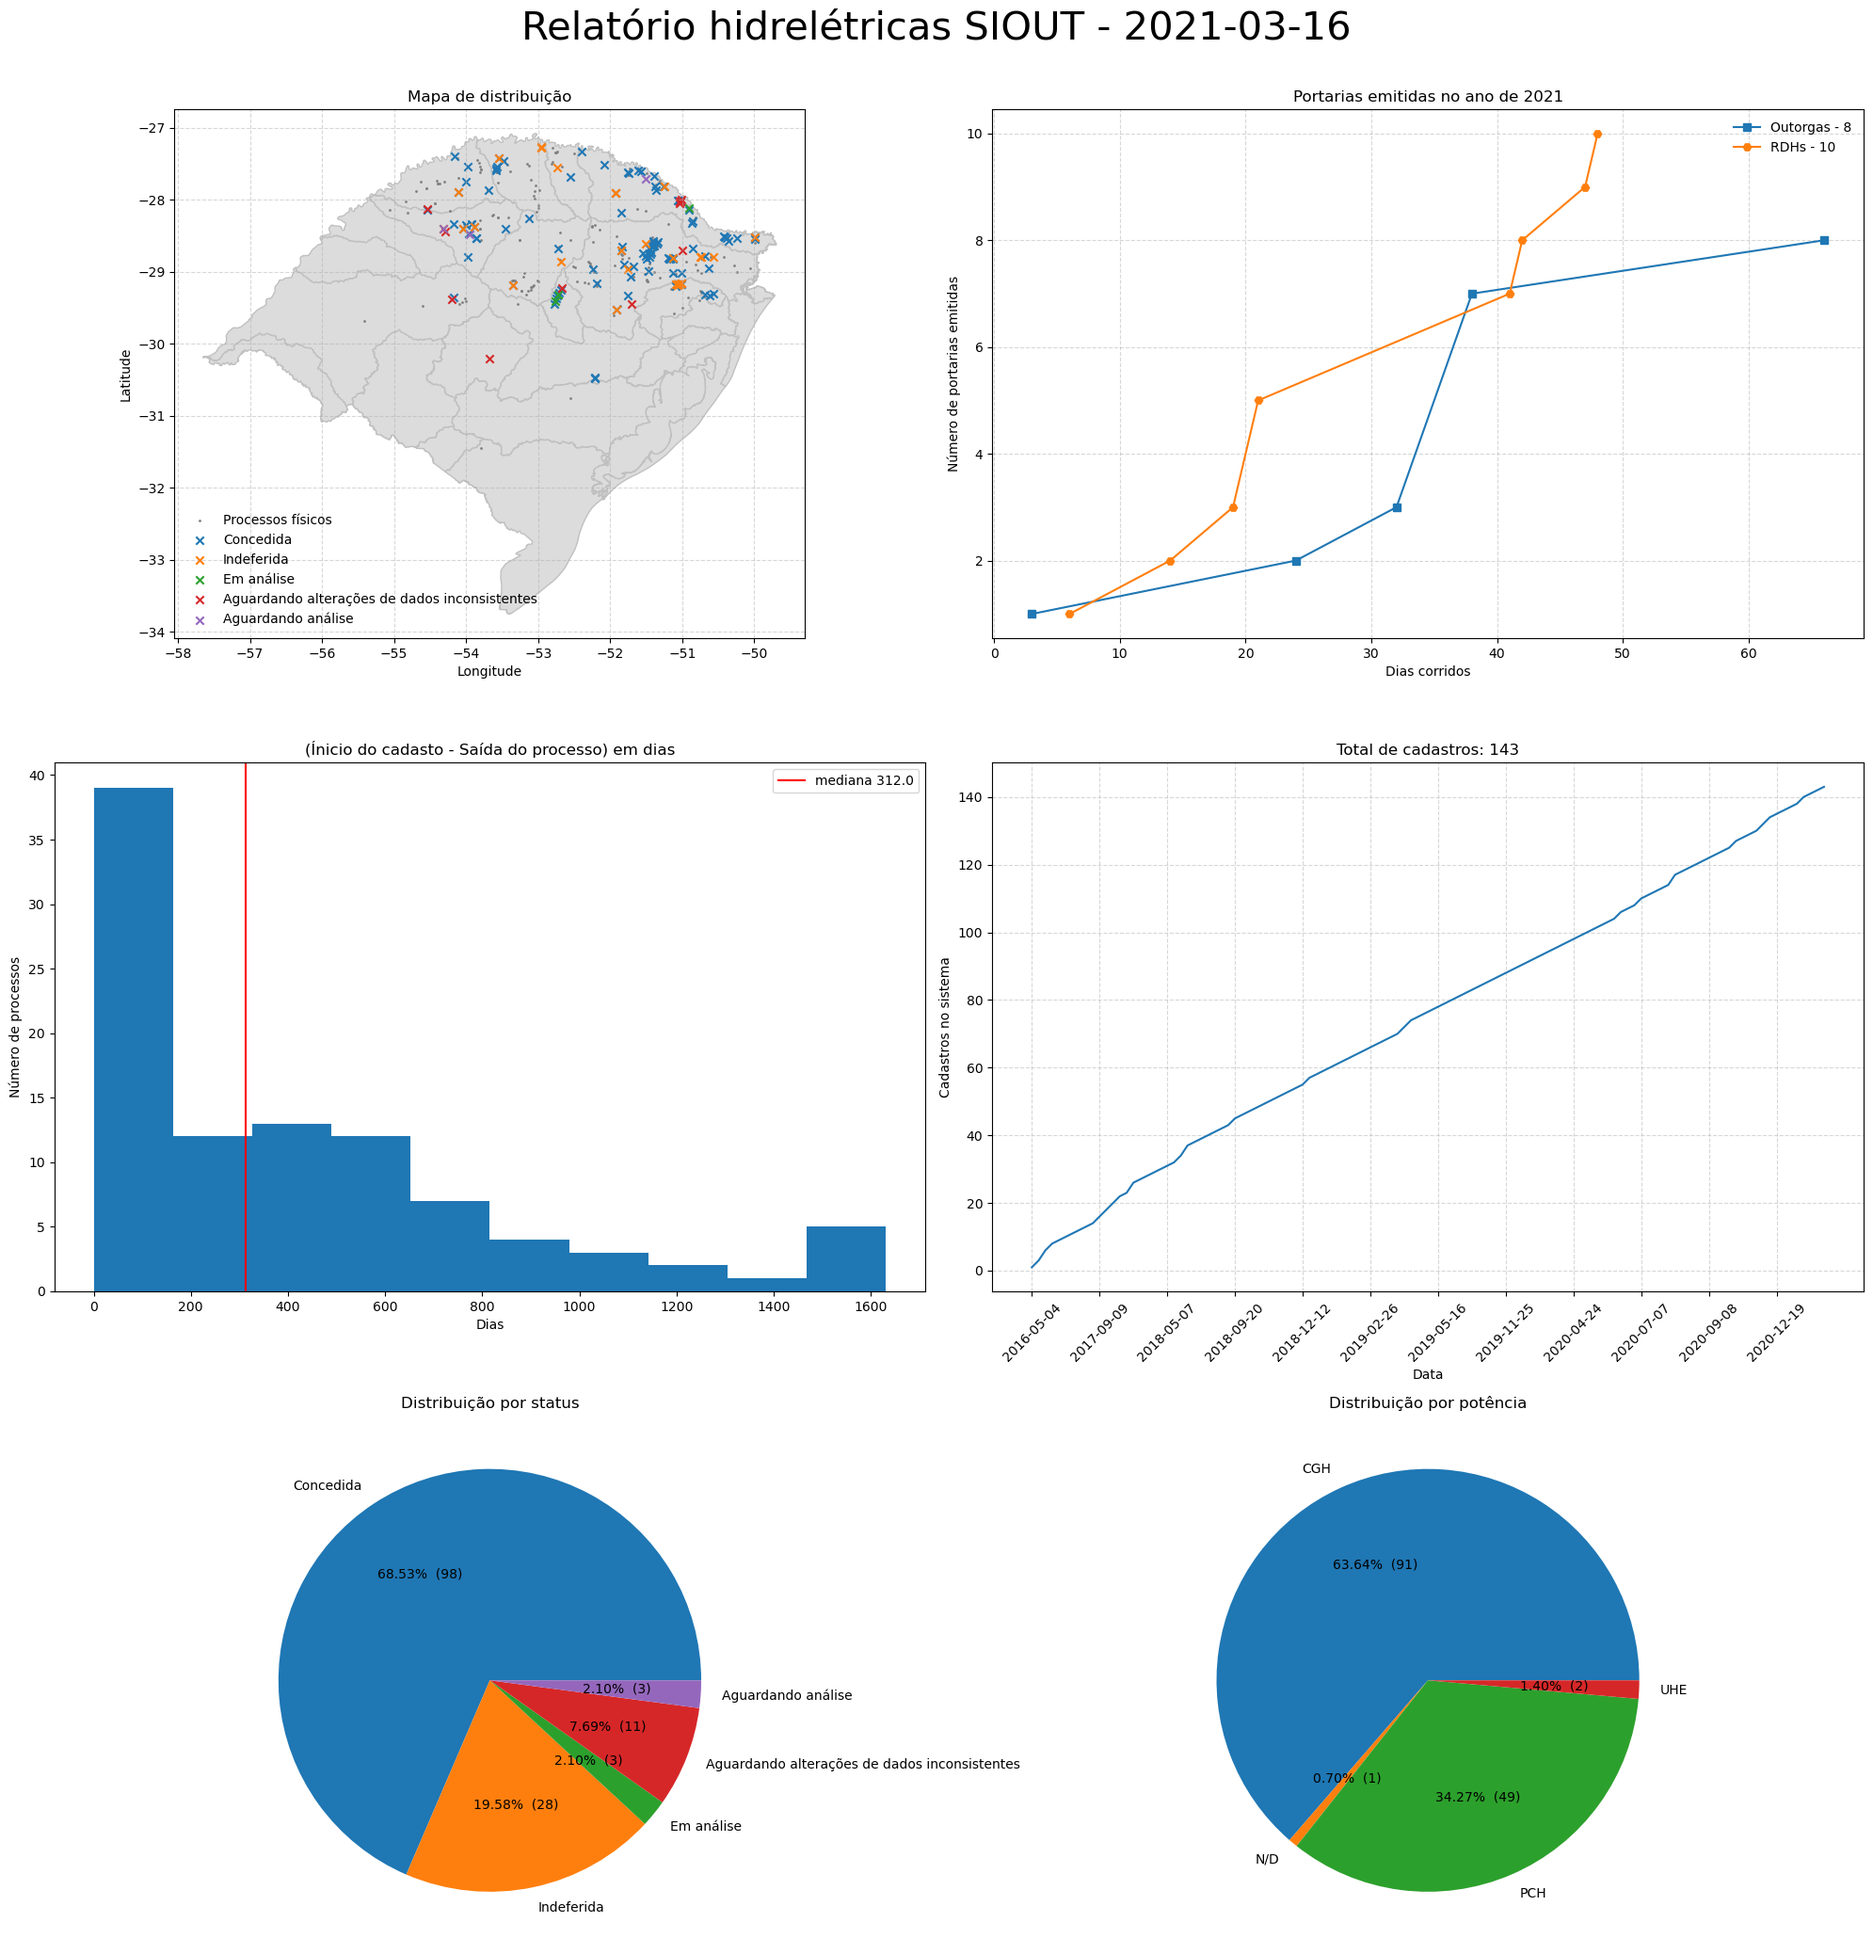
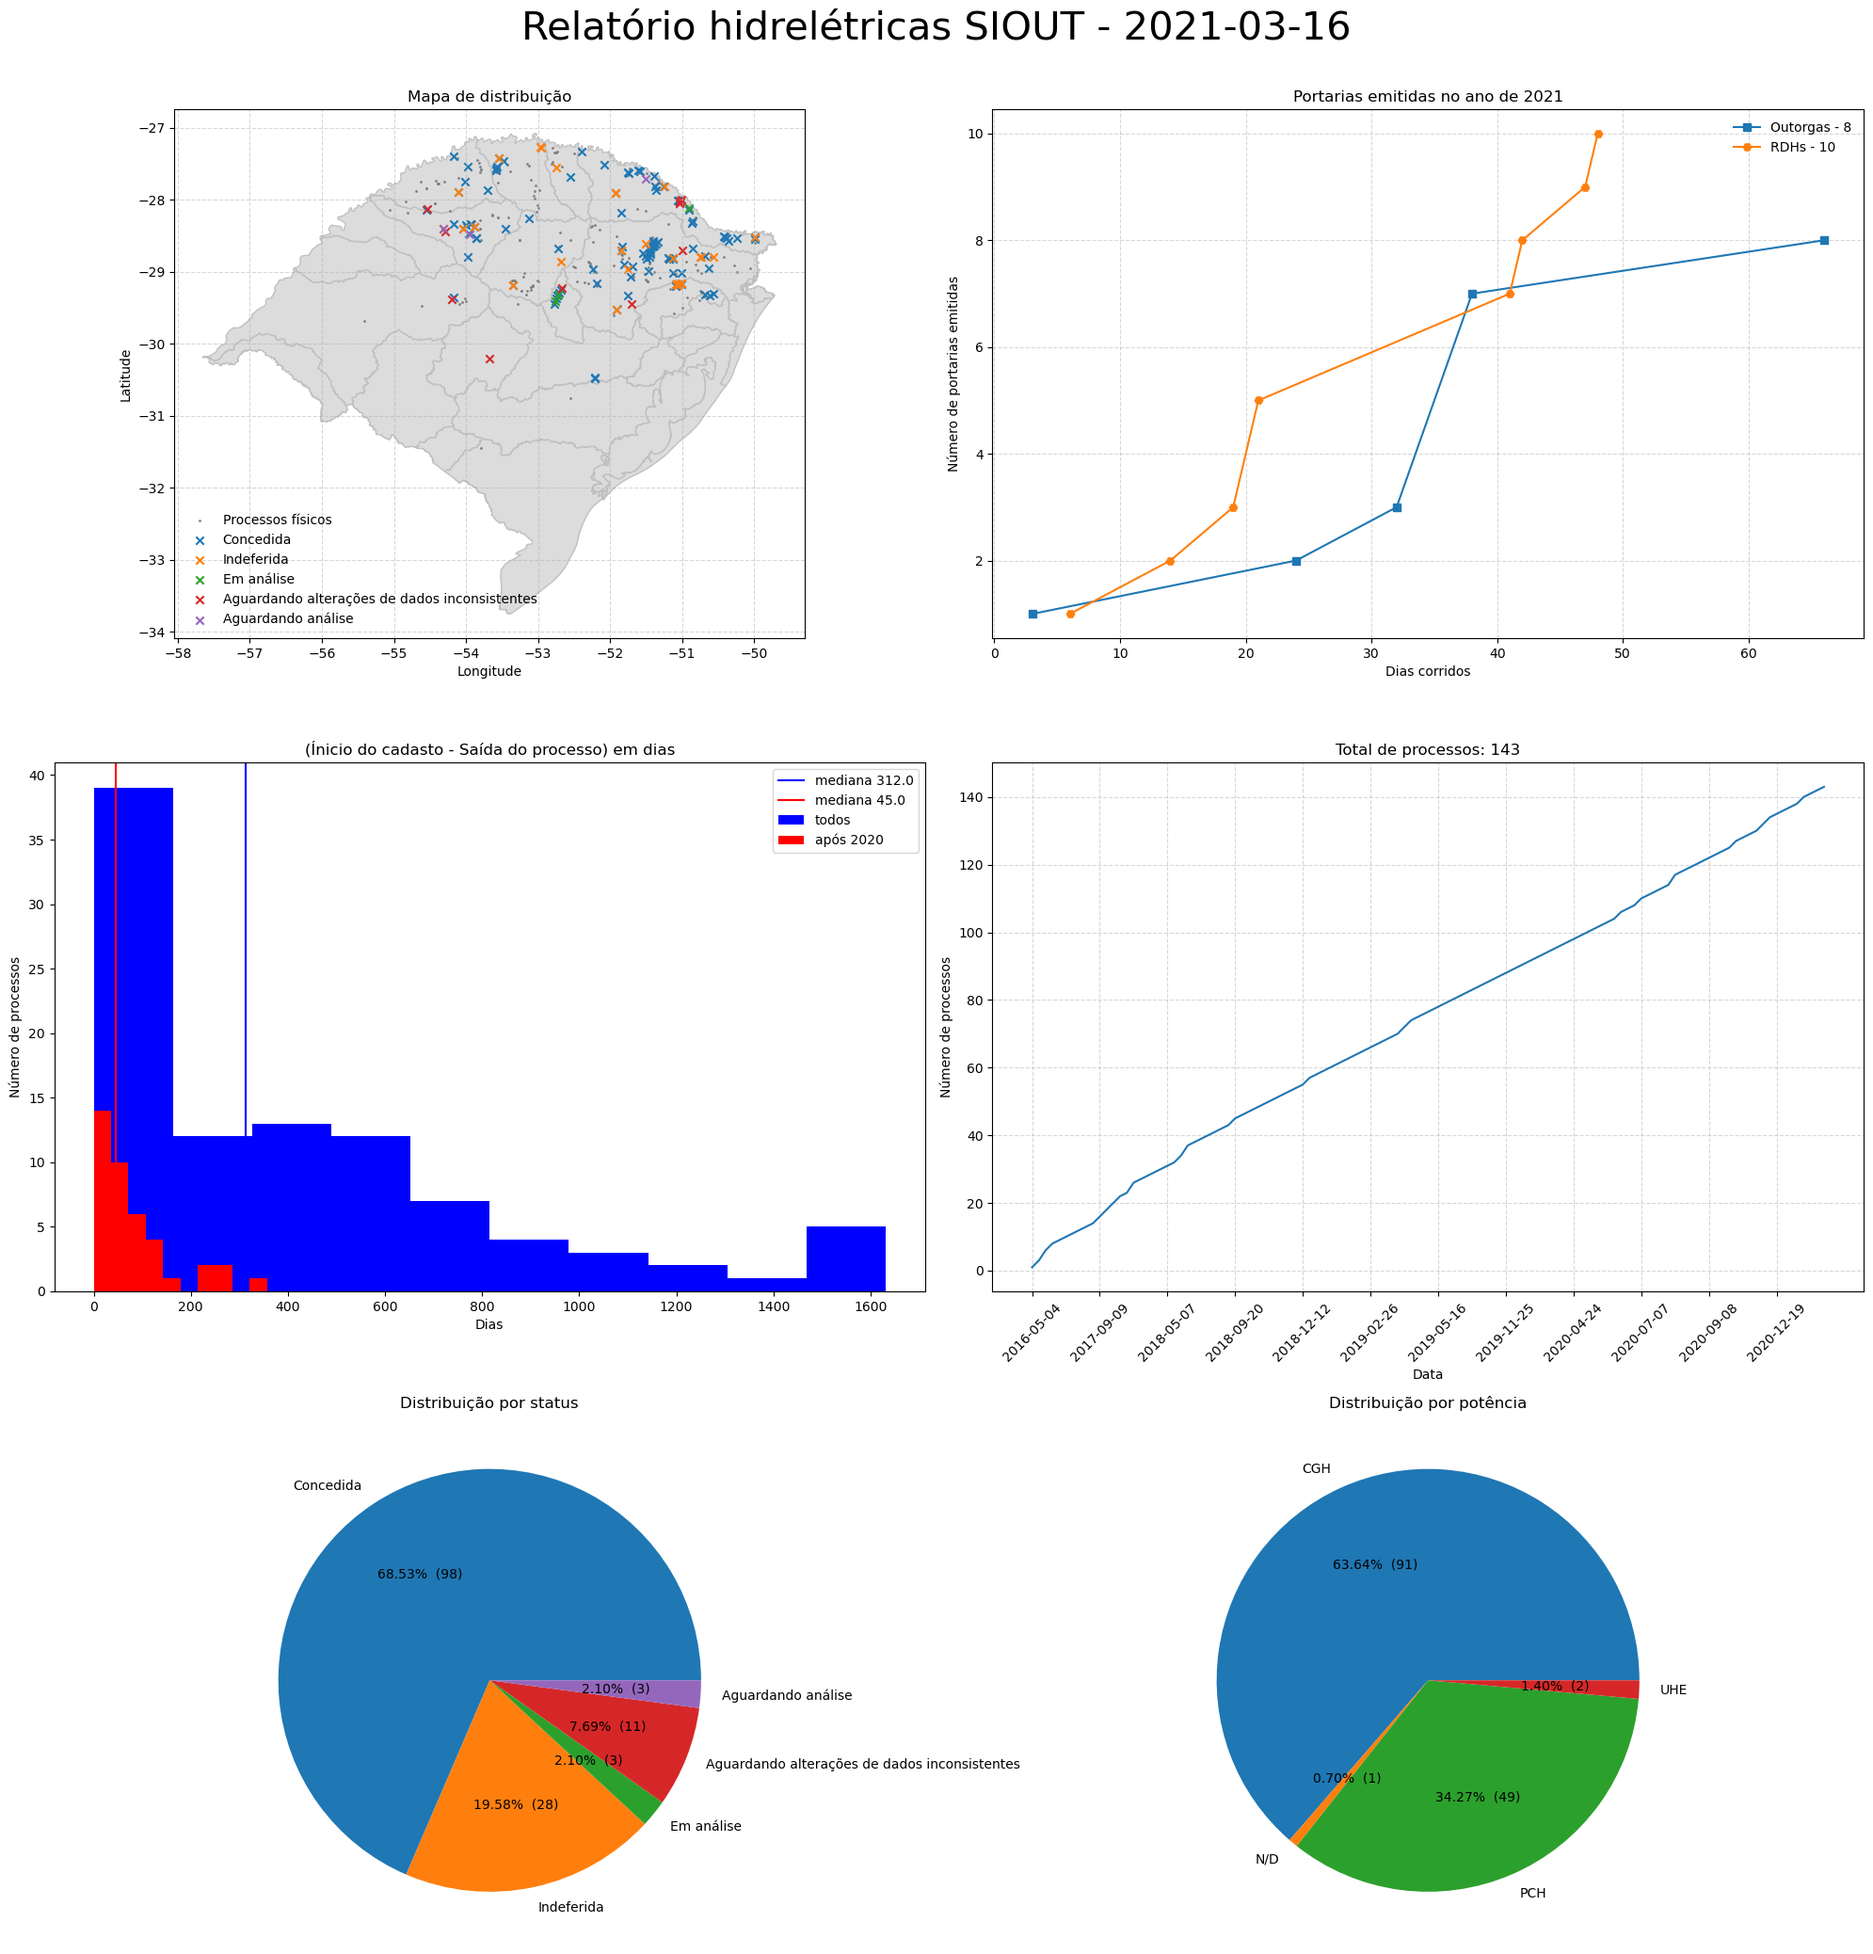
histograma vermelho

diff --git a/gerar_relatorio.py b/gerar_relatorio.py
@@ -229,17 +229,34 @@ df_concedida = df_portaria[fs]
 entrada = df_concedida['Data de início do cadastro']
 entrada = [date(int(i.split('/')[2]), int(i.split('/')[1]), int(i.split('/')[0])) for i in entrada]
 entrada = np.array(entrada)
+
 saida = df_concedida['Data de saída do processo']
 saida = [date(int(i.split('/')[2]), int(i.split('/')[1]), int(i.split('/')[0])) for i in saida]
 saida = np.array(saida)
 tspan = saida - entrada
 tspan = [tspan[i].days for i in range(len(tspan))]
-ax3.hist(tspan)
-ax3.axvline(np.median(tspan), c='red', label='mediana {}'.format(np.median(tspan)))
+
+cutoffdate = date(2020,1,1)
+datefilter = []
+for idx, i in enumerate(entrada):
+    if i > cutoffdate:
+        datefilter.append(True)
+    else:
+        datefilter.append(False)
+
+tspan_new = saida[datefilter] - entrada[datefilter]
+tspan_new = [tspan_new[i].days for i in range(len(tspan_new))]
+
+ax3.hist(tspan, color="blue", label="todos")
+ax3.axvline(np.median(tspan), c='blue', label='mediana {}'.format(np.median(tspan)))
+ax3.axvline(np.median(tspan_new), c='red', label='mediana {}'.format(np.median(tspan_new)))
+ax3.hist(tspan_new, color="red", label='após 2020')
+
 ax3.set_title('(Ínicio do cadasto - Saída do processo) em dias')
 ax3.legend()
 ax3.set_xlabel('Dias')
 ax3.set_ylabel('Número de processos')
+
 
 #portarias total
 entradas = df_filtrado['Data de início do cadastro'].values
@@ -257,8 +274,8 @@ y = np.cumsum(cad_dia)
 ax4.plot(x, y)
 ax4.grid(alpha=0.5, linestyle='--')
 ax4.set_xlabel('Data')
-ax4.set_ylabel('Cadastros no sistema')
-ax4.set_title('Total de cadastros: {}'.format(y[-1]))
+ax4.set_ylabel('Número de processos')
+ax4.set_title('Total de processos: {}'.format(y[-1]))
 tcks = [d_unique[i] for i in range(0, len(d_unique), 10)]
 ax4.set_xticks([i for i in range(0, len(d_unique), 10)])
 ax4.set_xticklabels(tcks, rotation=45)
